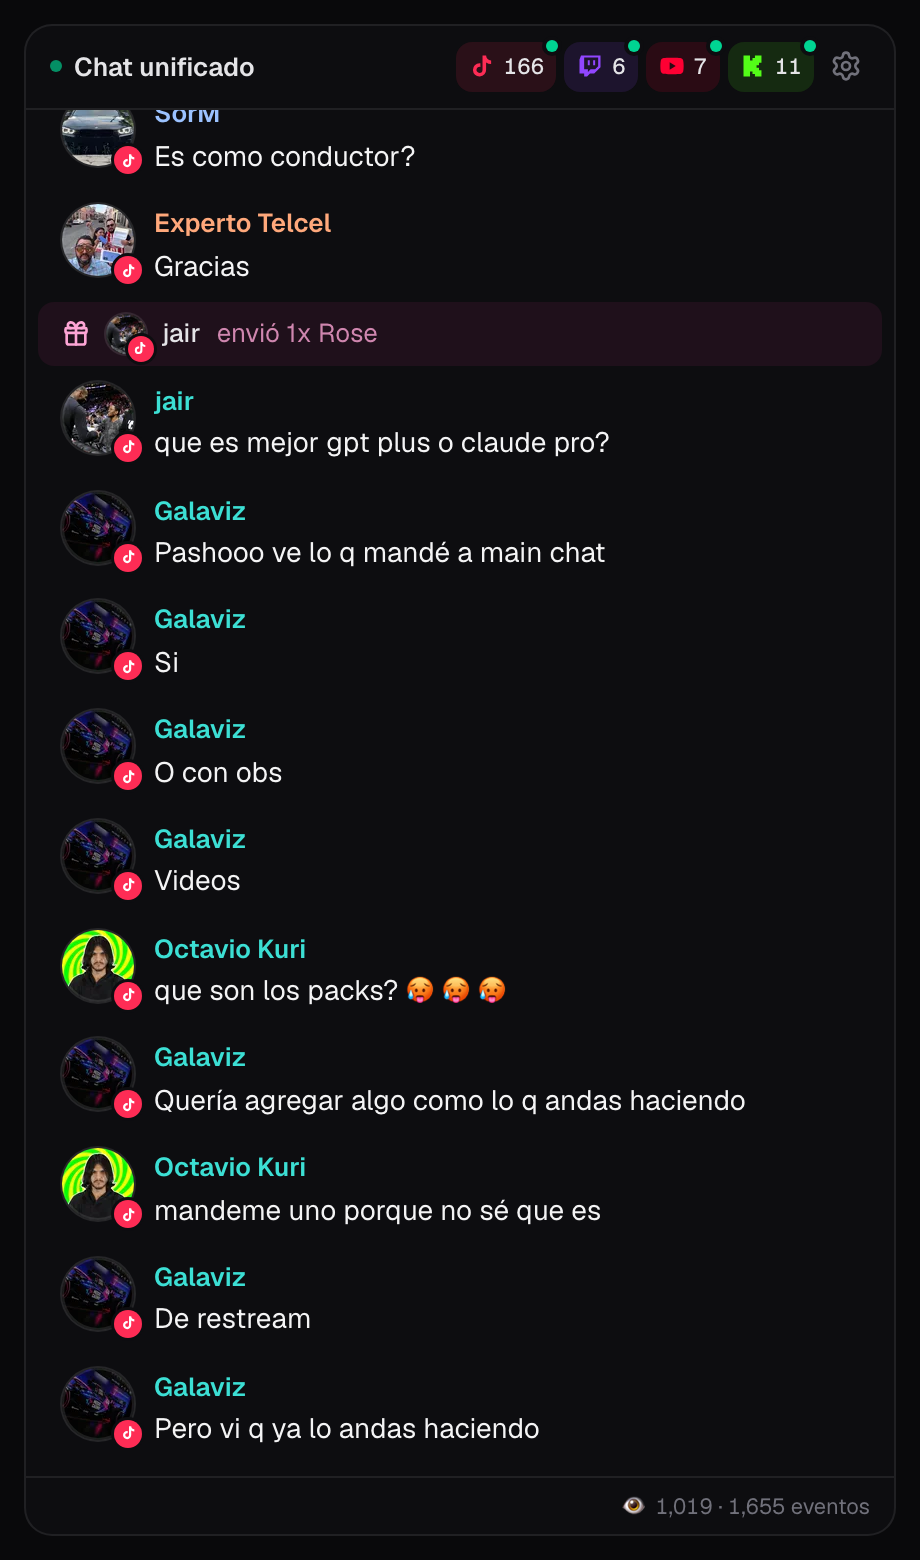
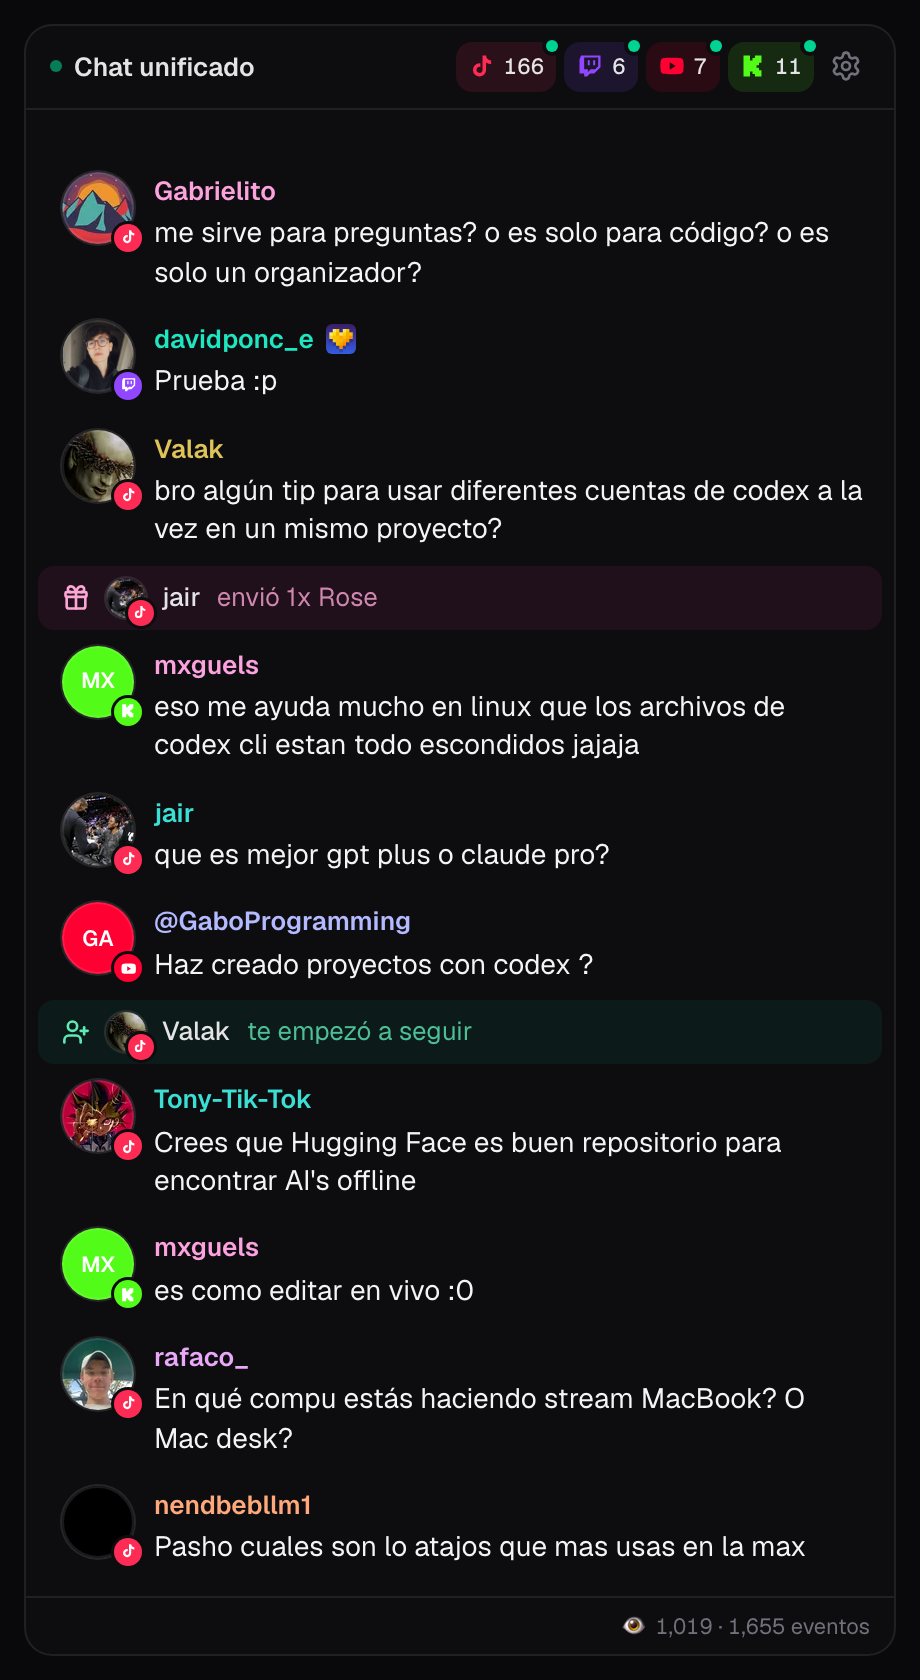
feat(overlay): fix overlay

diff --git a/README.es.md b/README.es.md
@@ -229,8 +229,14 @@ npm run typecheck  # tsc --noEmit
 npm run lint       # eslint
 npm run build      # build de producción
 
-npm run shot -- '/?stream' --on-video   # captura el overlay sobre fondo claro
+npm run shot -- '/?stream' --on-video   # captura el overlay sobre una escena simulada
+npm run shot -- --readme                # regenera las dos imágenes de docs/
 ```
+
+Las imágenes del README se renderizan desde `docs/fixture.json` —un conjunto fijo
+de mensajes reales— y no desde lo que haya en el chat en ese momento, así son
+reproducibles y muestran la app haciendo su trabajo en vez de una rebanada
+aleatoria de veinte segundos llena de likes.
 
 La base es un archivo SQLite normal, así que puedes consultarla directo:
 

diff --git a/README.md b/README.md
@@ -225,8 +225,14 @@ npm run typecheck  # tsc --noEmit
 npm run lint       # eslint
 npm run build      # production build
 
-npm run shot -- '/?stream' --on-video   # screenshot the overlay over a bright background
+npm run shot -- '/?stream' --on-video   # screenshot the overlay over a mock scene
+npm run shot -- --readme                # regenerate both images in docs/
 ```
+
+The README images are rendered from `docs/fixture.json` — a fixed set of real
+messages — rather than from whatever is in chat at that moment, so they stay
+reproducible and actually show the app doing its job instead of a random
+twenty-second slice full of likes.
 
 The database is a plain SQLite file, so you can query it directly:
 
